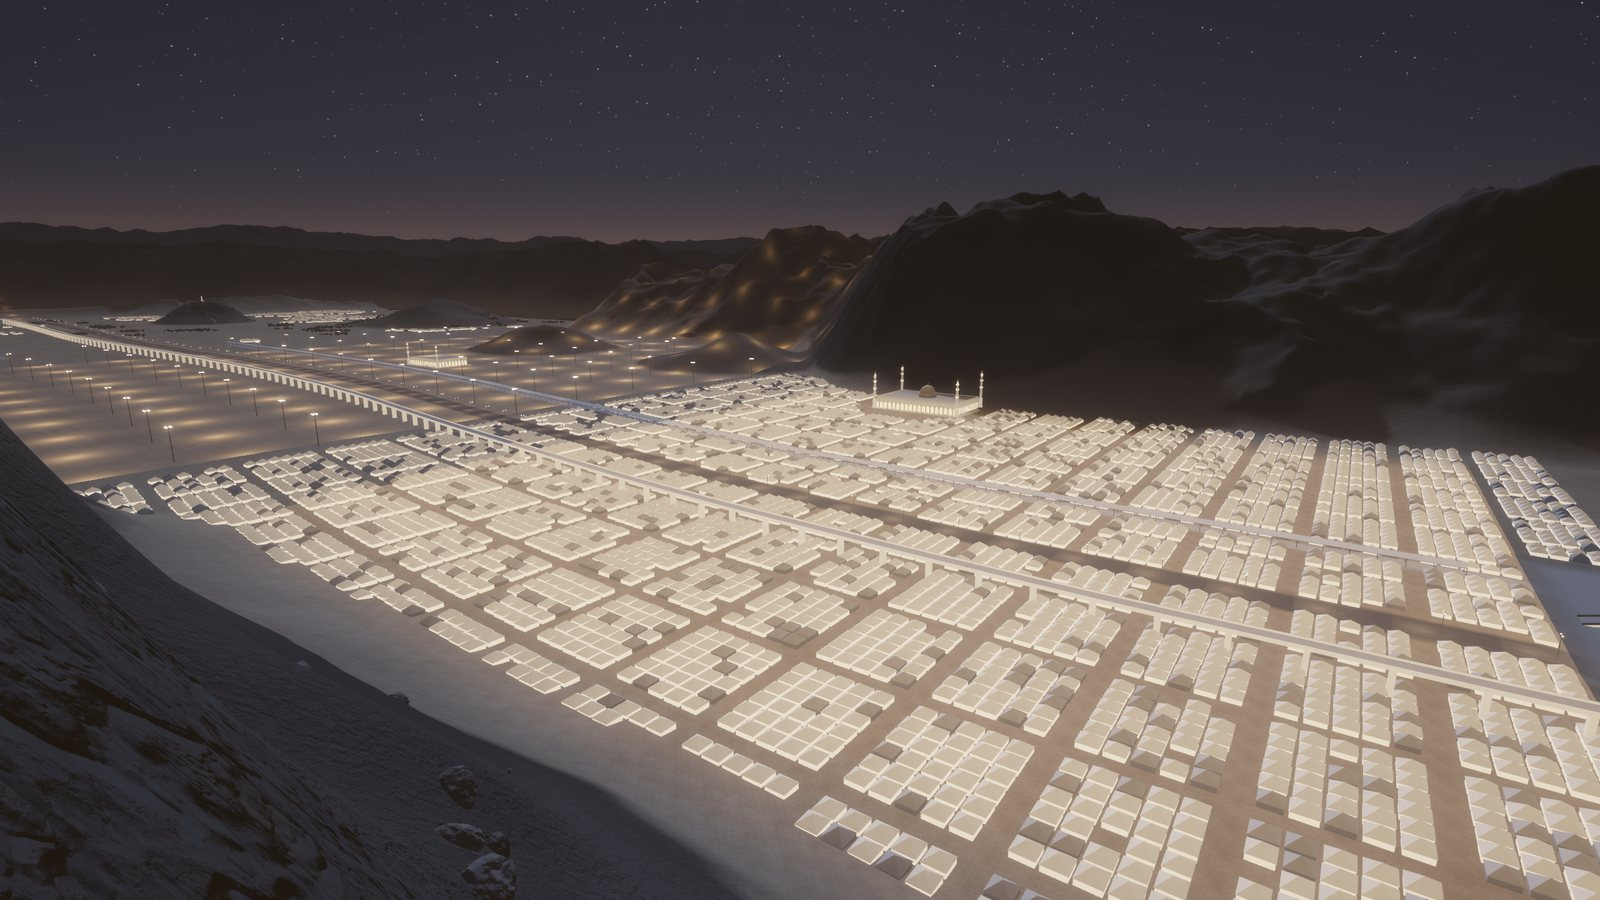
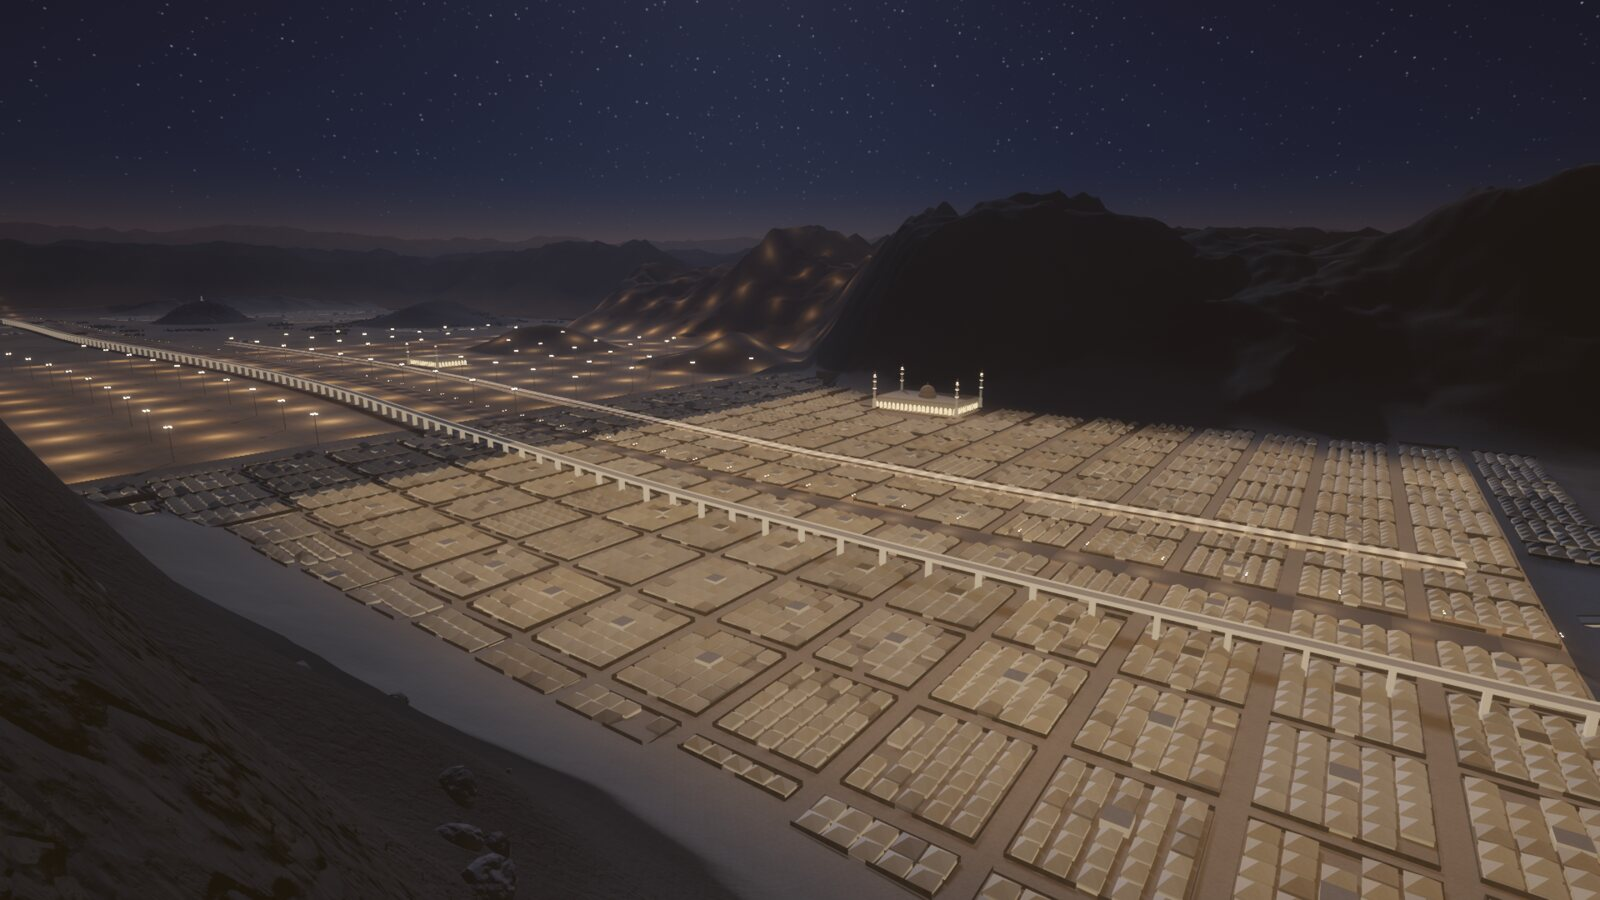
Realism s1: README screenshots and NOTES (stage 1 gates, critic gate failed on stage-2 heroes only)

diff --git a/NOTES.md b/NOTES.md
@@ -8,10 +8,19 @@ Courtyard and Madinah Horizon. None of them was edited. Brief: `prompt.txt`.
 
 ### Realism stages (brief: ~/.config/Claude/side-session-notes/local_e46bf3a1-465b-49b7-b617-a09a30fa0fa1/realism-stages-brief.md)
 
-- 2026-11-18 17:10 AEDT. Stage 1 in progress on branch `realism-s1` (not pushed, not merged). PAUSED at 86% of the
-  5-hour usage window; resume armed for 20:07 AEDT (session cron, one-shot).
-- Done on realism-s1: bf12c6c GTAO+TAA · 55bee59 Hillaire sky · 2789b94 static whole-route shadow map (and the near
-  map no longer skips the 8x8 tents) · b3b613d Mina camps, district tint, exposure pass. Uncommitted: nothing.
+- 2026-11-18 ~21:40 AEDT. **Stage 1 shipped** (realism-s1 fast-forwarded to main). Stage 2 next on `realism-s2`.
+- Stage 1 commits: bf12c6c GTAO+TAA · 55bee59 Hillaire sky · 2789b94 static whole-route shadow map (and the near
+  map no longer skips the 8x8 tents) · b3b613d Mina camps, district tint, exposure pass · fcd487b fix 1 (thinner
+  haze, desert-pavement and silt sheets, walkway paving and membrane, tent variation) · 3645d2e fix 2 (moonlit
+  night, walkway lamps, dawn shafts .6) · d919fc3 fix 3 (fence panels, softer night walkway lamps).
+- Stage 1 gates (final capture verify/rs1-f4, gates verify/rs1-g4): clip .070 (<.5 PASS; all of it sky glow beside
+  the golden sun, pose 2) · flatwhite .286 (<2 PASS) · brightdetail dawn 16.5 -> 72.4, golden 19.4 -> 31.3 (+15%
+  PASS) · GPU avg 5.03 p99 7.79 ms (verify/rs1-g4, PASS) · 0 console errors at 3 Times x H/M/L · menu-preview ok ·
+  index.html ~100 kB. **Critic gate FAILED**: highest "major" after 3 fix loops (verify/rs1-c2, rs1-f2, rs1-f3
+  critic.md). Shipped under the brief's rule: every remaining major is a stage-2 hero (tents read as a regular
+  grid, the Jamarat as a car park with its pillars hidden, Jabal al-Rahmah as a pebbled cone, pose 6's empty plain)
+  and every metric beats live. The in-scope majors (haze, flat plains, walkway, black night) were fixed and dropped
+  out of the list. The 4th loop was not spent: nothing in stage-1 scope was left on the critic's list.
 - Metric: ground crop `--crop 0,.5,1,1`, 6 poses x 3 Times at 1920x1080 (helper scripts in the session scratchpad;
   capture = `flock /tmp/claude-1000/worldsmith-gpu.lock node tools/capture.mjs ../dev.html --out <dir>/t<T> --size
   1920x1080 --storage hajjTime=<T>`). Night brightdetail is unstable (few bright pixels); judge detail on dawn+golden.
@@ -19,12 +28,11 @@ Courtyard and Madinah Horizon. None of them was edited. Brief: `prompt.txt`.
 - After b3b613d (verify/rs1-expo, measured before golden shafts 1 -> .6 and fences 2.2 -> 1.8 m): clip .079 (all of it
   sky glow beside the golden sun in pose 2), flatwhite .32, brightdetail dawn 36.5 / golden 28.5.
 - Perf after 2789b94 (verify/rs1-perf1, 2560x1440 High, 60 s flight): GPU avg 5.27, p99 8.33, max 9.68 ms.
-- index.html 97.5 kB. Critic on bf12c6c (verify/rs1-ao/critic.md): highest "blocker" = tents identical white
-  pyramids on a grid (addressed by b3b613d, not yet re-judged); majors: Jamarat reads as a car park, plain pillar,
-  pose-6 empty ramp, repetitive ground, Jabal al-Rahmah a gravel mound (stage-2 heroes).
-- Next: critic on the current build -> fix loop (<= 4) -> stage-1 gates (index.html 0 errors at 3 Times x H/M/L,
-  menu-preview, perf) -> ship (`git push origin realism-s1:main`, poll live sha) -> stage 2 (heroes: Jamarat,
-  Jabal al-Rahmah, Namirah, Mina tents; bounded GI after Madinah's s2 GI commit; clouds) -> stage 3 (DEM, OSM).
+- Critic on bf12c6c (verify/rs1-ao/critic.md) was "blocker" (identical white pyramids); b3b613d took it to major.
+- Next: stage 2 on `realism-s2`: bounded GI (port of Madinah 8246d13 + 133f332, script ready), altocumulus
+  (02909b3), Jamarat with oval openings round the pillars in every deck + stair towers + roof canopies, Jabal
+  al-Rahmah as dense granite tors + larger pillar platform, tents (per-camp variation, far moire), neem groves ->
+  stage 3 (DEM, OSM).
 
 ### Original build
 
